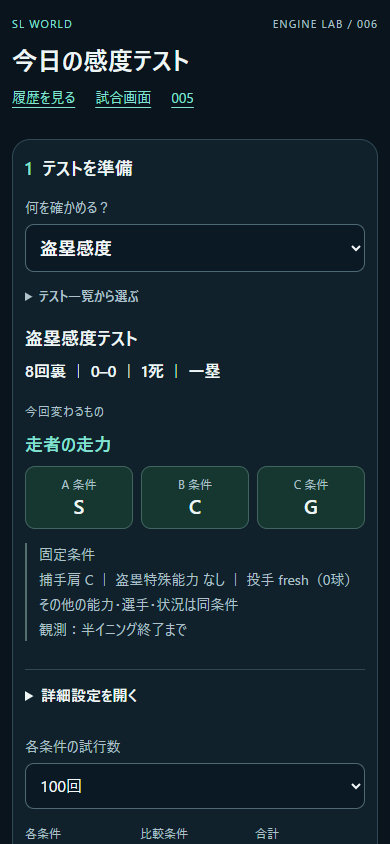
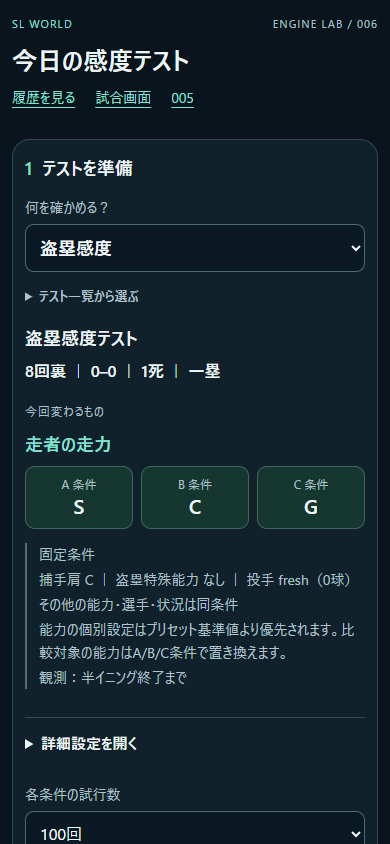
SL WORLD:LAB修正・回帰テスト・SL/TLチームデータ更新

diff --git a/index.html b/index.html
@@ -441,6 +441,11 @@ td:last-child{
   font-weight:850
 }
 
+.clubOpen,.clubBack{border:1px solid #345070;background:#13243b;color:#e0ebfa;border-radius:11px;padding:11px;min-height:44px;white-space:normal;overflow-wrap:anywhere}
+.clubOpen{width:100%;text-align:left;font-weight:700}
+.clubBack{margin-bottom:12px}
+.clubOpen:focus-visible,.clubBack:focus-visible{outline:2px solid var(--blue);outline-offset:3px}
+
 .archiveSection{
   display:none
 }
@@ -1129,10 +1134,10 @@ html.sl-opening-active, html.sl-opening-active body { overflow:hidden; overscrol
 <section id="history" class="view">
 
   <div class="hero">
-    <div class="label">SL ARCHIVES</div>
-    <h1>SL全史</h1>
+    <div class="label">SL WORLD HISTORY</div>
+    <h1>SL WORLD History</h1>
     <p>
-      最高優勝、CC、JC、国王杯、年表、伝説・記録を保存します。
+      SL・TLの現行所属チームと、SLの大会記録・年表・伝説を閲覧できます。
     </p>
   </div>
 
@@ -1143,8 +1148,11 @@ html.sl-opening-active, html.sl-opening-active body { overflow:hidden; overscrol
       data-archive="sl"
       onclick="showArchive('sl',this)"
     >
-      SL
+      SLの歴史
     </button>
+
+    <button class="archiveTab" data-archive="sl-clubs" onclick="showArchive('sl-clubs',this)">SL 所属チーム</button>
+    <button class="archiveTab" data-archive="tl-clubs" onclick="showArchive('tl-clubs',this)">TL 所属チーム</button>
 
     <button
       class="archiveTab"
@@ -1186,6 +1194,16 @@ html.sl-opening-active, html.sl-opening-active body { overflow:hidden; overscrol
       伝説
     </button>
 
+  </div>
+
+  <p class="notice">所属チームは現行名称で表示します。大会別記録・年表・記事は当時の名称を残しています。</p>
+  <div id="archive-sl-clubs" class="archiveSection" aria-label="SL 所属チーム">
+    <div class="card"><h2>SL（スーパーリーグ）所属チーム</h2><p>現行所属：12チーム</p></div>
+    <div id="slClubList"></div><div id="slClubDetail" hidden></div>
+  </div>
+  <div id="archive-tl-clubs" class="archiveSection" aria-label="TL 所属チーム">
+    <div class="card"><h2>TL 所属チーム</h2><p>現行所属：10チーム</p></div>
+    <div id="tlClubList"></div><div id="tlClubDetail" hidden></div>
   </div>
 
   <div id="archive-sl" class="archiveSection active">
@@ -1448,6 +1466,43 @@ const $ = id => document.getElementById(id);
    SL WORLD CORE DATA
 ========================================================= */
 
+/* CURRENT TEAM REGISTRY: identities are independent of names and league membership.
+   Former names are reference aliases, never additional teams or storage migrations. */
+const SL_TEAM_REGISTRY = (() => {
+  const rows = [
+    ['club-001','デビルスターズ','SL','東東京',null,[]],
+    ['club-002','アステリア','SL','徳島','納東一',[]],
+    ['club-003','東京アスレチックス','SL','東東京','日体荏原',['日本体育大荏原']],
+    ['club-004','桐蔭フロンティア','SL','大阪','大阪桐蔭',[]],
+    ['club-005','ブルーマリナーズ','SL','静岡','壮青学院',[]],
+    ['club-006','東海ユナイテッド','SL','神奈川','東海大相模',[]],
+    ['club-007','明道仁球会','SL','福井','威伏',[]],
+    ['club-008','明訓ベースボールクラブ','SL','神奈川','明訓',[]],
+    ['club-009','武勇館','SL','石川',null,[]],
+    ['club-010','キューバ・リベルタード','SL','福岡','西東国',[]],
+    ['club-011','知略野球研究所','SL','兵庫','知位学園',[]],
+    ['club-012','鳥取野球倶楽部','SL','鳥取','頭取商',[]],
+    ['club-013','霞ヶ浦セイラーズ','TL','茨城','霜華',[]],
+    ['club-014','邦成重工','TL','大分','邦成',[]],
+    ['club-015','福島レガリア','TL','福島','黄静学院',[]],
+    ['club-016','火乃国球道会','TL','熊本','能体工',[]],
+    ['club-017','倉敷鋼業','TL','岡山','剛田理大附',[]],
+    ['club-018','西東京オリオンズ','TL','西東京','将駄',[]],
+    ['club-019','紀州パイレーツ','TL','和歌山','市若大商',[]],
+    ['club-020','関西電機','TL','大阪','HG学院',[]],
+    ['club-021','幕張アストロズ','TL','千葉','千羽経附',[]],
+    ['club-022','飛騨製作所','TL','岐阜','県岐阜商',[]]
+  ];
+  const clubs = Object.freeze(rows.map(([id,currentName,league,region,formerName,aliases]) =>
+    Object.freeze({id,currentName,league,region,formerName,aliases:Object.freeze(aliases)})));
+  const byId = id => clubs.find(team => team.id === id) || null;
+  const resolve = (name,league) => typeof name === 'string' && name.length ? clubs.find(team => (!league || team.league === league) &&
+    (team.currentName === name || team.formerName === name || team.aliases.includes(name))) || null : null;
+  return Object.freeze({clubs,byId,resolve,forLeague:league=>clubs.filter(team=>team.league===league)});
+})();
+/* END CURRENT TEAM REGISTRY */
+
+// Legacy competition keys: keep saved editions, points and manager references intact.
 const teams = [
   "デビルスターズ",
   "大阪桐蔭",
@@ -3339,6 +3394,39 @@ function renderEventHistory(){
    TEAM CARDS
 ========================================================= */
 
+// Resolve current display labels only. Historical text and stored keys stay intact.
+function currentClubName(name){return SL_TEAM_REGISTRY.resolve(name)?.currentName || name;}
+function renderLeagueClubs(){
+  for(const league of ['SL','TL']){
+    const root=$(league.toLowerCase()+'ClubList');
+    root.replaceChildren();
+    for(const team of SL_TEAM_REGISTRY.forLeague(league)){
+      const card=document.createElement('div');card.className='card';
+      const button=document.createElement('button');button.type='button';button.className='clubOpen';
+      button.dataset.clubId=team.id;button.textContent=team.currentName;
+      button.onclick=()=>openLeagueClub(team.id);
+      const info=document.createElement('p');info.className='notice';info.textContent=team.league+' ｜ '+team.region;
+      card.append(button,info);root.append(card);
+    }
+  }
+}
+function openLeagueClub(id){
+  const team=SL_TEAM_REGISTRY.byId(id);if(!team)return;
+  const prefix=team.league.toLowerCase(),detail=$(prefix+'ClubDetail'),list=$(prefix+'ClubList');
+  showArchive(prefix+'-clubs',document.querySelector('[data-archive="'+prefix+'-clubs"]'));
+  detail.replaceChildren();
+  const back=document.createElement('button');back.type='button';back.className='clubBack';back.textContent=team.league+' 所属チーム一覧へ戻る';
+  back.onclick=()=>{detail.hidden=true;list.hidden=false;list.querySelector('[data-club-id="'+id+'"]').focus();};
+  const card=document.createElement('div');card.className='card';
+  const title=document.createElement('h3');title.textContent=team.currentName;title.tabIndex=-1;
+  const league=document.createElement('p');league.textContent='所属リーグ：'+(team.league==='SL'?'SL（スーパーリーグ）':'TL');
+  const region=document.createElement('p');region.textContent='地域：'+team.region;
+  card.append(title,league,region);
+  if(team.formerName){const former=document.createElement('p');former.className='notice';former.textContent='旧名称（資料表記）：'+team.formerName;card.append(former);}
+  if(team.aliases.length){const aliases=document.createElement('p');aliases.className='notice';aliases.textContent='既存記録の別表記：'+team.aliases.join('・');card.append(aliases);}
+  detail.append(back,card);list.hidden=true;detail.hidden=false;title.focus();detail.scrollIntoView({block:'start'});
+}
+
 function renderTeams(){
 
   const area =
@@ -3376,8 +3464,10 @@ function renderTeams(){
               <div>
 
                 <h2>
-                  ${escapeHTML(team)}
+                  ${escapeHTML(currentClubName(team))}
                 </h2>
+
+                <p class="notice">SL ｜ ${escapeHTML(SL_TEAM_REGISTRY.resolve(team,'SL')?.region || '')}</p>
 
                 ${
                   big6
@@ -3460,13 +3550,13 @@ function renderRelationships(){
 
             <div>
               <strong>
-                ${escapeHTML(rel.a)}
+                ${escapeHTML(currentClubName(rel.a))}
               </strong>
 
               <small> × </small>
 
               <strong>
-                ${escapeHTML(rel.b)}
+                ${escapeHTML(currentClubName(rel.b))}
               </strong>
             </div>
 
@@ -3904,7 +3994,7 @@ function renderSLArchive(){
             `<div class="rule">
               <span>
                 ${index + 1}.
-                ${escapeHTML(team)}
+                ${escapeHTML(currentClubName(team))}
               </span>
 
               <strong>
@@ -4245,7 +4335,7 @@ function renderJCArchive(){
             `<div class="rule">
               <span>
                 ${index + 1}.
-                ${escapeHTML(team)}
+                ${escapeHTML(currentClubName(team))}
               </span>
 
               <strong>
@@ -5186,6 +5276,8 @@ function renderAll(){
   renderEventHistory();
 
   renderTeams();
+
+  renderLeagueClubs();
 
   renderRelationships();
 

diff --git a/engine-lab-presentation.js b/engine-lab-presentation.js
@@ -9,7 +9,9 @@ const title=s=>(L.scenarios[s.id]?.label||s.label||'CUSTOM')+'テスト';
 const situation=s=>`${s.inning}回${s.half==='top'?'表':'裏'} ｜ ${s.score.join('–')} ｜ ${s.outs}死 ｜ ${s.bases.some(Boolean)?['一','二','三'].filter((_,i)=>s.bases[i]).join('・')+'塁':'走者なし'}`;
 const condition=(g,i)=>({id:'ABC'[i]||String(i+1),label:g.changed?.value!=null?String(g.changed.value)==='none'?'なし':String(g.changed.value):g.label||'単一条件'});
 function metric(r,id){let [kind,key]=id.split(':'),name,basis;
- if(kind==='initial'){name=label(key)+'選択率';basis='各試行の最初の判断 / 全試行';}
+ if(kind==='initial'){name='初手'+label(key)+'選択率';basis='initialDecision（各試行の最初の判断）/ 全試行';}
+ if(kind==='observed'){name=label(key)+'発生率（観測全体）';basis='初期判断を含む観測全体で1回以上発生した試行 / 全試行';}
+ if(kind==='later'){name=label(key)+'発生率（初期判断後）';basis='最初の判断を除く観測期間で1回以上発生した試行 / 全試行';}
  if(kind==='operation'){name=label(key)+'選択率';basis='観測範囲内で1回以上 / 全試行（重複あり）';}
  if(kind==='matchup'){name=label(key);basis='各試行の最初の投手対打者判断 / 全試行';}
  if(kind==='alignment'){name=label(key);basis='各試行の最初の守備位置 / 全試行';}
@@ -17,19 +19,20 @@ function metric(r,id){let [kind,key]=id.split(':'),name,basis;
  if(kind==='outcome'){name={scored:'得点率',noScore:'無得点率',tookLead:'勝ち越し率',tiedAtEnd:'終了時同点率',draw:'試合引き分け率',outEnded:'アウト終了率',gameFinished:'試合終了率'}[key]||key;basis='該当試行 / 全試行';}
  const values=r.groups.map((g,i)=>{let n=0,d=g.trials.length;const s=g.summary;
   if(kind==='initial')n=key==='STEAL'?(s.initialDecision.STEAL_2B||0)+(s.initialDecision.STEAL_3B||0):s.initialDecision[key]||0;
+  if(kind==='observed'||kind==='later')n=g.trials.filter(t=>(t.decision[key]||0)-(kind==='later'&&t.initialDecision===key?1:0)>0).length;
   if(kind==='operation')n=g.trials.filter(t=>t.decision[id.slice('operation:'.length)]).length;
   if(kind==='matchup')n=g.trials.filter(t=>t.traces?.[0]?.matchup?.decision===key).length;
   if(kind==='alignment')n=g.trials.filter(t=>t.traces?.[0]?.alignment===key).length;
   if(kind==='outcome')n=s.outcome[key]||0;
   if(kind==='success'){const x=s.execution;n=x[key==='STEAL'?'stolenBase':key+':success']||0;d=n+(x[key==='STEAL'?'caughtStealing':key+':failure']||0);}
-  return {conditionId:condition(g,i).id,numerator:n,denominator:d,rate:d?n/d:null};});
+  return {conditionId:condition(g,i).id,numerator:n,denominator:d,rate:d?n/d:null,...(['observed','later'].includes(kind)?{occurrences:g.trials.reduce((n,t)=>n+Math.max(0,(t.decision[key]||0)-(kind==='later'&&t.initialDecision===key?1:0)),0)}:{})};});
  if(kind==='operation'&&key==='MATCHUP')name=label(id.split(':').at(-1))+'（trial内）';
  if(kind==='operation'&&key==='ALIGNMENT')name=label(id.split(':').at(-1))+'（trial内）';
  if(kind==='operation'&&key==='DEFENSE')name=label(id.split(':').at(-1))+'（trial内）';
  return {id,label:name||label(key),basis,values};
 }
-function metrics(r){const common=['initial:SWING_AWAY'];const ids={steal:['initial:STEAL','success:STEAL','initial:HIT_AND_RUN',...common],bunt:['initial:SAC_BUNT','success:SAC_BUNT',...common],squeeze:['initial:SQUEEZE','success:SQUEEZE',...common],hitRun:['initial:HIT_AND_RUN','success:HIT_AND_RUN',...common],walk:['matchup:CHALLENGE','matchup:CAUTIOUS','matchup:INTENTIONAL_WALK'],pinchHit:['operation:PINCH_HIT'],pinchRun:['operation:PINCH_RUN'],relief:['operation:CONTINUE','operation:RELIEF','operation:CLOSER'],alignment:['alignment:NORMAL','alignment:IN','alignment:DEEP']}[r.groups[0].bundle.scenario.id]||common;
- const all=[...new Set([...r.groups.flatMap(g=>Object.keys(g.summary.initialDecision).map(k=>'initial:'+k)),...['PINCH_HIT','PINCH_RUN','DEFENSIVE_SUB','CONTINUE','RELIEF','CLOSER','MATCHUP:CHALLENGE','MATCHUP:CAUTIOUS','MATCHUP:INTENTIONAL_WALK','ALIGNMENT:NORMAL','ALIGNMENT:IN','ALIGNMENT:DEEP','DEFENSE:SECURE_RETURN','DEFENSE:HOLD_BALL'].map(k=>'operation:'+k),...['scored','noScore','tookLead','tiedAtEnd','draw','outEnded','gameFinished'].map(k=>'outcome:'+k),...['STEAL','SAC_BUNT','SAFETY_BUNT','SQUEEZE','HIT_AND_RUN'].map(k=>'success:'+k)])];
+function metrics(r){const common=['initial:SWING_AWAY'];const ids={steal:['initial:STEAL','success:STEAL','initial:HIT_AND_RUN',...common],bunt:['initial:SAC_BUNT','success:SAC_BUNT',...common],squeeze:['initial:SQUEEZE','success:SQUEEZE',...common],hitRun:['initial:HIT_AND_RUN','observed:HIT_AND_RUN','later:HIT_AND_RUN','success:HIT_AND_RUN',...common],walk:['matchup:CHALLENGE','matchup:CAUTIOUS','matchup:INTENTIONAL_WALK'],pinchHit:['operation:PINCH_HIT'],pinchRun:['operation:PINCH_RUN'],relief:['operation:CONTINUE','operation:RELIEF','operation:CLOSER'],alignment:['alignment:NORMAL','alignment:IN','alignment:DEEP']}[r.groups[0].bundle.scenario.id]||common;
+ const all=[...new Set(['observed:HIT_AND_RUN','later:HIT_AND_RUN',...r.groups.flatMap(g=>Object.keys(g.summary.initialDecision).map(k=>'initial:'+k)),...['PINCH_HIT','PINCH_RUN','DEFENSIVE_SUB','CONTINUE','RELIEF','CLOSER','MATCHUP:CHALLENGE','MATCHUP:CAUTIOUS','MATCHUP:INTENTIONAL_WALK','ALIGNMENT:NORMAL','ALIGNMENT:IN','ALIGNMENT:DEEP','DEFENSE:SECURE_RETURN','DEFENSE:HOLD_BALL'].map(k=>'operation:'+k),...['scored','noScore','tookLead','tiedAtEnd','draw','outEnded','gameFinished'].map(k=>'outcome:'+k),...['STEAL','SAC_BUNT','SAFETY_BUNT','SQUEEZE','HIT_AND_RUN'].map(k=>'success:'+k)])];
  return {primary:ids.map(id=>metric(r,id)),all:all.map(id=>metric(r,id))};
 }
 const explanations={STATE_LEGALITY:['走者またはアウト数に不整合','重複走者や成立しないアウト数を検出しました。'],TWO_OUT_SACRIFICE:['2死から送りバントを選択','送りバントの前提条件との矛盾が検出されました。'],OCCUPIED_STEAL:['走者のいる塁への盗塁','盗塁先が空いていない可能性があります。'],ILLEGAL_OPTION:['前提条件を満たさない選択','ENGINEが不成立と記録した選択肢が選ばれています。'],ILLEGAL_SQUEEZE:['スクイズの前提条件に不整合','三塁走者・アウト数を確認してください。'],ILLEGAL_HIT_RUN:['H&Rの前提条件に不整合','一塁走者・二塁の空き・アウト数を確認してください。'],MISSING_STEAL_EXECUTION:['盗塁判断と実行が不一致','盗塁を選んだ記録に対応する実行がありません。'],DEEP_HOLD:['外野で返球せず保持','意味のある保持か、返球が欠けたかを確認してください。'],MISSING_RETURN:['返球判断に送球記録がない','SECURE RETURNと実行記録が一致していません。'],REASON_CONTRADICTION:['理由と条件の不整合','能力条件と高成功見込みという理由が矛盾する可能性があります。'],EXECUTION_MISMATCH:['判断と実行が不一致','敬遠の判断と実行を確認してください。'],LOW_SENSITIVITY:['比較条件を変えても初回選択率がほぼ同じ','入力感度・成立する機会・標本数の切り分けを推奨します。'],REPLAY_RESULT_MISMATCH:['保存結果とseed再実行が不一致','保存された終了スコア等と今回のENGINE再生結果が一致しません。']};

diff --git a/engine006-fielding.js b/engine006-fielding.js
@@ -33,7 +33,8 @@
   e.fieldingPoint=e.landingPoint?[clamp(e.landingPoint[0]+Math.sin(e.sprayAngle||0)*roll,90,710),clamp(e.landingPoint[1]-Math.cos(e.sprayAngle||0)*roll,60,420)]:null;
   const receiver=(base,from)=>base===1?2:base===2?(from===5?3:5):base===3?4:1;
   let raw=e.runningExecution?[{fromIndex:1,toBase:e.runningExecution.toBase,runnerKey:e.runningExecution.runner.key,result:e.runningExecution.caughtStealing?'out':'safe',kind:'tag'}]:e.tagUp?e.actions.filter(a=>a.type==='tagUp').map(a=>({fromIndex:e.fielderIndex,toBase:a.toBase,runnerKey:a.runner.key,result:a.result,kind:'tag'})):e.throws|| (e.throw?[e.throw]:[]);
-  if(hit&&!raw.length){e.defenseDecision=SL_TACTICS.defenseDecision(g,e,currentBatter(g),{settled:true});raw=e.defenseDecision.decision==='SECURE_RETURN'?[{toBase:2,kind:'return',result:'secured'}]:[];}
+  const outfieldReturn=e.fielderIndex>=6&&e.outcome==='inPlay'&&e.result!=='homeRun'&&e.outsAfter<3&&e.runnersAfter?.some(Boolean);
+  if((hit||outfieldReturn)&&!raw.length){e.defenseDecision=SL_TACTICS.defenseDecision(g,e,currentBatter(g),{settled:true});raw=e.defenseDecision.decision==='SECURE_RETURN'?[{toBase:2,kind:'return',result:'secured'}]:[];}
   let from=e.fielderIndex;
   e.transfers=raw.map(t=>{const fromIndex=t.fromIndex??from,toIndex=receiver(t.toBase,fromIndex);const action=e.actions.find(a=>a.toBase===t.toBase&&a.result==='out');const transfer={fromIndex,toIndex,toBase:t.toBase,from:fielders[fromIndex],receiver:fielders[toIndex],kind:t.kind||(e.eventType==='baserunning'?'tag':e.forceOut||e.battedResult==='groundout'||e.doublePlay?'force':'return'),runnerKey:t.runnerKey||action?.runner.key||e.runner?.key||null,result:t.result||action?.result||(e.caughtStealing?'out':'safe')};from=toIndex;return transfer;});
   e.coverage=e.transfers.map(t=>({fielderIndex:t.toIndex,toBase:t.toBase,role:'baseCover'}));

diff --git a/engine-lab.css b/engine-lab.css
@@ -6,3 +6,4 @@
 #resultContext{white-space:pre-line}#shareStatus:empty,#importStatus:empty,#saveStatus:empty{display:none}#saveStatus{font-size:14px;color:var(--accent)}
 
 #solMeta{white-space:pre-line;font-size:16px;line-height:1.65}
+.metrics-table tbody td small{display:block;white-space:normal;font-size:10px;font-weight:400;color:var(--muted);overflow-wrap:anywhere}

diff --git a/DAILY-REVIEW-2026-09-09.md b/DAILY-REVIEW-2026-09-09.md
@@ -1,0 +1,50 @@
+# 2026-09-09 制作本部 修正・検証記録
+
+## 変更範囲
+
+- `engine006-fielding.js`: 既存の安打後返球に加え、走者が残り3アウト未満の外野インプレーで、アウトを狙う送球がない場合にSECURE RETURNを記録する。送球先は既存の二塁カバー。乱数・進塁・得点・アウト処理は変更しない。内野HOLD BALL、既存のアウト送球、005系を保持。
+- `engine-lab-ui.js`: ファイル共有のtitleを除去し、JSON 1ファイルだけを渡す。CSV・履歴・コピー・完全ログの経路を維持。能力セレクトは実値に対応するS/C/Gを表示。個別走者は共通走者の上書きを表示・継承する。代走控えはRUNNERプリセット、救援の既定値はエンジンと同じC。プリセット切替時は選手ソース表示をリセット。警戒勝負の次打者等の固定条件を補足。
+- `engine-lab-presentation.js`, `engine-lab.css`: H&Rの初手選択率、観測全体の発生試行率と回数、初期判断後の発生試行率と回数を分離。回数表示は狭い画面で折り返す。
+
+## JSONの互換性と能力の読み方
+
+`initialDecision`は最初の判断、`decision`は初期判断を含む観測全体の回数。既存項目・schemaVersionを保持し、表示指標に`observed:HIT_AND_RUN`と`later:HIT_AND_RUN`を追加。発生率の分母は試行数であり、回数/試行数ではない。`occurrences`が発生回数。
+
+scenarioの`*Grade`はプリセット基準値。`players`の明示指定が優先し、比較軸は指定した能力のみ上書きする。保存JSONの`groups[].bundle.scenario.players`と`groups[].bundle.teams`（解析用JSONでは`comparison.conditions[].scenario`と`comparison.fixedConditions.referenceBundle`）に実条件を保持する。UIでCへ個別変更しても基準のG自体は過去JSONとの互換性のため残る。固定表示・能力セレクトは上書き後の実値を参照する。
+
+## 制作本部提供の観測結果（再測定値ではない）
+
+| 対象 | 2026-09-09の観測 | 扱い |
+| --- | --- | --- |
+| 代打・代走 | 各100 / 100 / 0 | 閾値変更なし。将来のバランス調整候補 |
+| スクイズ×バント○/なし/× | 成功率に差、選択率は約14.5%で同一 | 入力感度レビュー。選択判断に能力差を入れるかはデザイン検討 |
+| 継投×制球S/C/G | 80球は全条件続投、140球は全条件交代。投球結果には能力差あり | 閾値維持。80～140球間の境界探索を将来のテスト項目にする |
+| 守備位置 | 1点差・1死三塁=前進100%、2点差=通常100%、2死=深め100% | 正常、回帰基準 |
+| 盗塁/H&R | 走力・ミート変化に選択率が反応 | 正常、入力感度を維持。元のseed/試行数/JSONは未提供 |
+
+## 検証
+
+- `daily-corrections.test.cjs`: 変更前revision `be73bb264fd062117fb91414c60b57d5d669265f`との9プリセット×100 seed比較。返球に関する集計と理由を除いて初期判断、攻撃判断、trace、交代、実行、結果、異常判定の一致を検査。3外野位置×5結果の返球・状態不変、H&R初手/後続の集計、継投・守備位置基準を検査。
+- `engine-lab-ux.browser.test.cjs`: 全9プリセットで能力CのUI/シナリオ/セットアップ/比較/JSON round-tripを検査。共有payloadはfilesのみ・JSON 1件、ダウンロード件数、CSV以外の既存履歴/再生/コピー経路、320pxを含む画面幅を検査。
+- `engine-lab-ui-baseline.json`: 返球イベント追加に伴うfielding hashと180 trial fingerprintを更新。戦術ファイルのhashは変更しない。
+- `engine-lab-sol.test.cjs`: 新旧共有処理の比較では双方に同じ返球注釈を適用。元の返球注釈との差はdailyテストで独立検査する。
+
+## 未完了：チームデータ
+
+SL 12チーム・TLの確定した「旧名称→新名称・地域」一覧がリポジトリにも指示本文にもないため回答待ち。現行の名称キー、過去大会・選手所属・ニュース等は未変更。確定一覧を受領してから対応ID/別名・当時名称の保持を実装し参照の回帰確認を行う。改名を推測して適用しない。
+
+## 最終実行結果
+
+すべてPASS:
+
+- `node daily-corrections.test.cjs` — 900新旧比較、15外野返球条件、H&R分離、継投/守備位置基準。
+- `node engine-lab-roads.test.cjs` — 戦術成立条件、能力ランク、交代と救援の継続性。
+- `node engine-lab-regression.test.cjs` — 30試合、12表示モード試合、7,682イベント、900シナリオ、3,000感度試行、10,000連続試行。
+- `node engine-lab-ui.test.cjs` — 更新済み返球基準180 fingerprint、旧/新JSON往復、CSV不変、入力非破壊。
+- `node engine-lab-ux.browser.test.cjs` — 全プリセット、単一JSON、旧履歴/DB保持、1/100/1,000/10,000回Worker実行、320/375/390/430px。最後の代走控え修正後も再実行してPASS。
+- `node engine-lab-sol.test.cjs` — 同じ返球注釈下で13,000試行が旧戦術と一致。3,000試行JSON 243,315 bytes、10,000試行JSON 345,702 bytes。大量異常の集計・省略・CSV/完全ログ互換。
+- `node engine-regression.test.cjs` — 旧系150試合、40モード比較、2,400ゴロ状況、34,143イベント。
+- `node tactics-regression.test.cjs` — 旧戦術100試合、40リプレイ、25,165イベント、240バント打席。
+- 変更JavaScriptの構文検査、`git diff --check`。
+
+ブラウザテストが既存の `test-artifacts/engine-lab-ux-phone.png`、`engine-lab-ux-phone-results.png`、`engine-lab-ux-results.png`を更新。出力サイズ記録は`test-artifacts/sol-export-sizes.json`。共有APIへのpayloadとブラウザダウンロードを検証済みだが、実機OS共有先での保存操作は未実施。公開・デプロイは未実施。

diff --git a/HISTORY-TEAMS-2026-09-09.md b/HISTORY-TEAMS-2026-09-09.md
@@ -1,0 +1,53 @@
+# SL / TL 現行所属チーム・History追加（2026-09-09）
+
+## 今回の変更ファイル
+
+- `index.html`：共通チーム台帳、HistoryのSL/TL所属一覧・詳細、現在チームを示す表示の整理。
+- `history-teams.test.cjs`：正規22チーム、旧名参照、履歴非破壊、画面操作、保存互換性の回帰検査。
+- `test-artifacts/team-history-protected.json`：今回開始時のエンジン/LAB/戦術等33ファイルのSHA-256。前の依頼で行った変更を含む作業開始時点から追加変更がないことを確認する。
+- `test-artifacts/history-tl-clubs.png`、`test-artifacts/history-tl-detail.png`：スマホ画面検証記録。
+- この文書。
+
+## 正規データ
+
+指示本文のSL 12チーム・TL 10チームを、その順序・名称・地域で登録。画像は旧名資料として使用。全チームが同じ構造を持つ。
+
+`id / currentName / league / region / formerName / aliases`
+
+- 固定IDは`club-001`～`club-022`。名称や所属リーグをIDに含めず、今後の変更でも同じチームを参照できる。
+- 旧名称は同じチームの参照用情報。旧チームの別レコードを生成しない。
+- 東京アスレチックスは画像の「日体荏原」と既存コードの「日本体育大荏原」を同じIDへ対応させる。
+- 資料の「HG学院」と既存歴史にある「HG学園」等、別表記か確定できないものを推測で結び付けない。
+- 不明な名称・空値は未解決のまま返す。既存情報の生成・全置換・保存データ移行は行わない。
+- 台帳と一覧はindex.html内に置き、新しい外部リソースやPWAキャッシュ構造の変更は不要。
+
+## History UI
+
+既存タブへ「SL 所属チーム」「TL 所属チーム」を追加。SLの歴史・CC・JC・国王杯・年表・伝説の既存経路を維持。
+
+一覧には現名称・リーグ・地域、詳細にはチーム名・所属リーグ・地域と資料の旧名を表示。チームIDで詳細を開く。一覧に戻ると元のボタンへフォーカスが戻る。TLの架空の監督・選手・順位・成績などは表示しない。
+
+現在のクラブカード・クラブ間関係、SL/JCのチーム単位の通算集計表示は現名称を使用。通算回数は既存データの計算を維持し、新しい成績を加えない。
+
+## 未変更の歴史・動作
+
+- 大会別の優勝者・結果、CC/JC/国王杯の元データ、年表、伝説、過去記事の見出し・本文・移籍記録は当時の名称を保持。
+- 既存大会処理のチーム名称キー、監督参照、ポイント、Big6、保存済み所属・移籍・関係性を維持。表示名だけを台帳で解決する。
+- 第34回など既存大会の入力・集計処理を現名称へ一括移行しない。現行所属台帳と過去の大会キーは別の役割。
+- TLの日程・対戦・順位・シーズン・昇降格・大会参加・AI試合・選手自動生成は未実装のまま。
+- 今回、試合エンジン・戦術AI・LABには追加変更なし。前の作業の未コミット変更も保持。
+
+## 確認
+
+`node history-teams.test.cjs`（Playwrightは既存のバンドル依存を使用）:
+
+- 22チームの名称・地域・リーグが指示と完全一致、ID一意、正規データ以外の架空フィールドなし。
+- 旧名/別表記から同じIDを参照。不明な名称を推測で解決しない。
+- 既存のチーム・監督・ポイント・歴史データ定義と全歴史記事のソースが変更前revisionと一致。
+- エンジン/LAB/戦術等33ファイルが今回開始時と同じハッシュ。
+- SL 12件・TL 10件の一覧、全22詳細、戻る操作・フォーカス、既存6アーカイブ、現在チーム表示。
+- 幅320/390/1280pxの一覧・詳細に横方向のはみ出しなし。
+- 保存済み選手所属・移籍・関係性・大会・メモが操作後・再読み込み後も同じ。
+- ページ例外なし。inline JavaScript構文検査、`git diff --check`。
+
+公開・デプロイは行っていない。
